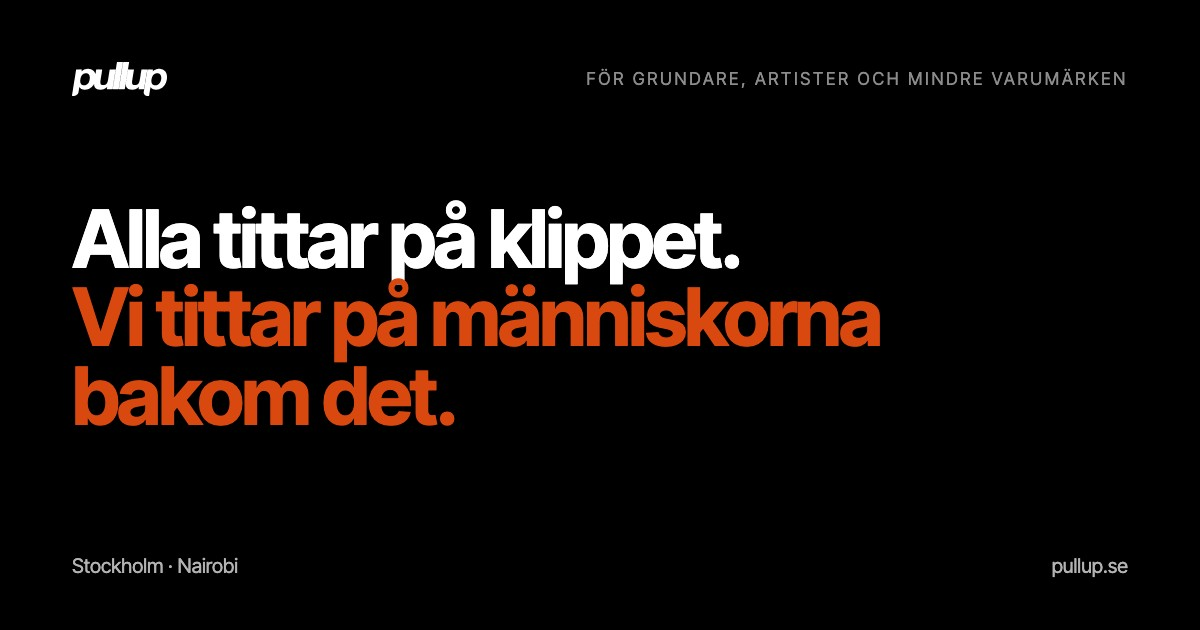
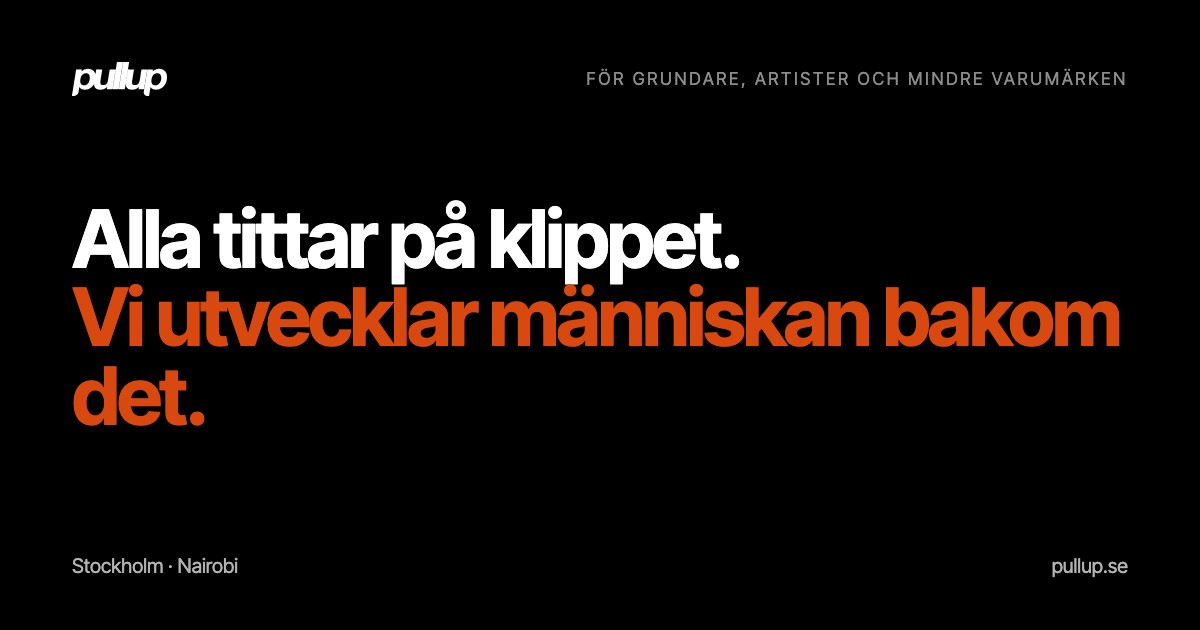
landing: the person behind it — hero, chapters and offer push developing the person for growth that lasts
- Hero: 'Everyone looks at the clip. We develop the person behind it.' + sub
  (voice, direction, the habit of showing up — growth that lasts) + 'Meet the
  people behind it' with the six faces
- 01 The people: 'We developed the people. The brands grew with them.';
  cards read How they grew → What followed
- 02 'You grow every week. Your brand grows with you.'; 03 'Built around you,
  as you grow.'; offer 'Built for the long run' (price no longer twice)
- Swedish number style everywhere (10 000+, 28,1 milj.), CountUp included
- Swedish booklet previews; share card + meta on the new line (v=5)

Changed region(s): [[0.0617, 0.4222, 0.9558, 0.6937]]

diff --git a/frontend/src/pages/MixPage.jsx b/frontend/src/pages/MixPage.jsx
@@ -21,7 +21,10 @@ import { Clip, Spike } from "./CorePage.jsx";
 
 // Counts every number in a string up from zero the first time it's seen:
 // "28.1M" → 0.0M…28.1M, "10,000+" → 0…10,000+. Words stay as they are.
+// Animates the English source; every frame goes through t(), so Swedish reads
+// "10 000+" and "28,1 milj." all the way up.
 function CountUp({ text }) {
+  const t = useT();
   const ref = useRef(null);
   const [k, setK] = useState(() =>
     typeof IntersectionObserver === "undefined" || window.matchMedia?.("(prefers-reduced-motion: reduce)").matches ? 1 : 0,
@@ -50,7 +53,7 @@ function CountUp({ text }) {
     const v = Number(m.replace(/,/g, "")) * k;
     return m.includes(",") ? Math.round(v).toLocaleString("en-US") : v.toFixed(dec);
   });
-  return <span ref={ref} aria-label={text}>{out}</span>;
+  return <span ref={ref} aria-label={t(text)}>{t(out)}</span>;
 }
 
 // The people first: a row of faces, each one a door to their story below.
@@ -97,12 +100,12 @@ function StoryStack() {
               {t(c.kicker)}
             </p>
             <h3 className="mx-story-name">{c.name}</h3>
-            <p className="mx-story-tog">{t("Together")}</p>
-            <p className={`mx-story-big${t(c.score[0]).length > 8 ? " is-long" : ""}`}><CountUp text={t(c.score[0])} /></p>
+            <p className="mx-story-tog">{t("What followed")}</p>
+            <p className={`mx-story-big${t(c.score[0]).length > 8 ? " is-long" : ""}`}><CountUp text={c.score[0]} /></p>
             <p className="mx-story-big-l">{t(c.score[1])}</p>
             <dl className="mx-story-pb">
               <div><dt>{t("Where they started")}</dt><dd>{t(c.who)}</dd></div>
-              <div><dt>{t("What they gained")}</dt><dd>{t(c.gained)}</dd></div>
+              <div><dt>{t("How they grew")}</dt><dd>{t(c.gained)}</dd></div>
             </dl>
             <Reveal className="mx-story-chart"><StoryChart chart={c.chart} /></Reveal>
             <a
@@ -167,8 +170,11 @@ function Hero() {
           <p className="mx-eyebrow mx-rise" style={{ "--d": "0.1s" }}>{t("For founders, artists and small brands")}</p>
           <h1 className="mx-h1">
             <span className="mx-rise" style={{ "--d": "0.25s" }}>{t("Everyone looks at the clip.")}</span>
-            <span className="mx-rise mx-grad" style={{ "--d": "0.55s" }}>{t("We look at the people behind it.")}</span>
+            <span className="mx-rise mx-grad" style={{ "--d": "0.55s" }}>{t("We develop the person behind it.")}</span>
           </h1>
+          <p className="mx-sub mx-rise" style={{ "--d": "0.85s" }}>
+            {t("Your voice, your direction, the habit of showing up — built week by week. That's growth that lasts.")}
+          </p>
           <div className="mx-ctas mx-rise" style={{ "--d": "1.05s" }}>
             <button
               type="button"
@@ -182,13 +188,18 @@ function Hero() {
             </button>
             <button
               type="button"
-              className="mx-link"
+              className="mx-link mx-meet"
               onClick={() => {
                 trackEvent("cta_click", { location: "mix_hero_stories" });
                 scrollToId("stories");
               }}
             >
-              {t("See the stories")} <span aria-hidden="true">›</span>
+              <span className="mx-faces" aria-hidden="true">
+                {STORIES.map((c) => (
+                  <img key={c.slug} src={COVERS[c.slug] || c.image} alt="" decoding="async" style={{ "--sc": c.color }} />
+                ))}
+              </span>
+              {t("Meet the people behind it")} <span aria-hidden="true">›</span>
             </button>
           </div>
           <p className="mx-price mx-rise" style={{ "--d": "1.2s" }}>
@@ -219,12 +230,12 @@ export function MixContent() {
       <section id="stories" className="pc-section ch-1" data-pc-section="stories" data-pc-order="3">
         <div className="pc-wrap">
           <header className="mx-res-head">
-            <Reveal><p className="mx-res-k">01 · {t("What we've achieved together")}</p></Reveal>
+            <Reveal><p className="mx-res-k">01 · {t("The people")}</p></Reveal>
             <Reveal delay={0.06}>
-              <h2 className="mx-res-h">{t("We found the direction with them.")} <span>{t("Here's where it took them.")}</span></h2>
+              <h2 className="mx-res-h">{t("We developed the people.")} <span>{t("The brands grew with them.")}</span></h2>
             </Reveal>
             <Reveal delay={0.12}>
-              <p className="mx-res-sub">{t("Founders, artists, a venue and a global brand. Different people, different starting points — the same way of working.")}</p>
+              <p className="mx-res-sub">{t("Founders, artists, the people behind a venue and the talent inside a global brand. Different starting points — the same work: find the person, give them a direction, let it show every week.")}</p>
             </Reveal>
           </header>
           <People />
@@ -241,11 +252,11 @@ export function MixContent() {
         <div className="pc-wrap">
           <SectionLabel n="02">{t("How we take you there")}</SectionLabel>
           <Reveal>
-            <h2 className="pc-h2 hw-h2">{t("We build the line. Every week.")}</h2>
+            <h2 className="pc-h2 hw-h2">{t("You grow every week. Your brand grows with you.")}</h2>
           </Reveal>
           <Reveal delay={0.06}>
             <p className="st-lede hw-lede">
-              {t("A clear direction first. Then a 30-minute sprint every week that turns where you are right now into content — and every piece measured, so we scale what works.")}
+              {t("First a clear direction: who you are and where you're going. Then a 30-minute sprint every week where we sharpen your voice and turn where you are right now into content. Every piece is measured, so we scale what works — month after month.")}
             </p>
           </Reveal>
           <EngineChart />
@@ -256,7 +267,7 @@ export function MixContent() {
         <div className="pc-wrap">
           <SectionLabel n="03">{t("What we build along the way")}</SectionLabel>
           <Reveal>
-            <h2 className="pc-h2 tk-h2">{t("Everything we can build. Pulled in when you need it.")}</h2>
+            <h2 className="pc-h2 tk-h2">{t("Built around you, as you grow.")}</h2>
           </Reveal>
           <Toolkit />
         </div>
@@ -266,8 +277,8 @@ export function MixContent() {
         id="offer"
         source="mix"
         chapter={["04", "One offer"]}
-        heading="30,000 SEK a month. No tiers, no add-ons."
-        sub="Strategy, the weekly sprint and every tool behind it — apps, dashboards, tracking. Content is scoped to what actually moves your brand, not a quota of reels."
+        heading="Built for the long run. No tiers, no add-ons."
+        sub="We work with the person behind the brand, month after month — that's where growth that lasts comes from. Strategy, the weekly sprint and every tool behind it are included. Content is scoped to what moves you forward, never a quota."
       />
 
       <DeckTeaser source="mix" />
@@ -290,6 +301,12 @@ export const MIX_CSS = `
   .mx-link { font: inherit; font-size: 17px; font-weight: 500; background: none; border: 0; cursor: pointer; color: #FF8A57; padding: 6px 0; }
   .mx-link:hover { text-decoration: underline; }
   .mx-link span { font-size: 1.15em; margin-left: 2px; }
+  .mx-sub { margin-top: clamp(16px, 2.4vh, 24px); max-width: 34ch; font-size: clamp(18px, 1.7vw, 23px); line-height: 1.4; font-weight: 500; color: #c7c7cc; letter-spacing: -0.01em; text-wrap: balance; }
+  .mx-meet { display: inline-flex; align-items: center; gap: 10px; }
+  .mx-faces { display: inline-flex; }
+  .mx-faces img { width: 30px; height: 30px; border-radius: 50%; object-fit: cover; box-shadow: 0 0 0 2px #000, 0 0 0 3.5px var(--sc); }
+  .mx-faces img + img { margin-left: -9px; }
+  @media (max-width: 520px) { .mx-faces img:nth-child(n+5) { display: none; } }
   .mx-price { margin-top: 18px; font-size: 14px; color: #86868b; }
   .mx-hero-logos { position: relative; padding-bottom: clamp(16px, 3vh, 32px); }
   .mx-rise { opacity: 0; transform: translateY(20px); animation: mx-rise 1.1s cubic-bezier(0.16,1,0.3,1) forwards; animation-delay: var(--d, 0s); }

diff --git a/frontend/index.html b/frontend/index.html
@@ -8,9 +8,9 @@
     />
 
     <!-- Primary Meta -->
-    <title>PullUp — Alla tittar på klippet. Vi tittar på människorna bakom det.</title>
-    <meta name="title" content="PullUp — Alla tittar på klippet. Vi tittar på människorna bakom det." />
-    <meta name="description" content="Alla tittar på klippet. Vi tittar på människorna bakom det – strategi, innehåll och tillväxt för grundare, artister och mindre varumärken. Ett erbjudande: 30 000 kr i månaden." />
+    <title>PullUp — Alla tittar på klippet. Vi utvecklar människan bakom det.</title>
+    <meta name="title" content="PullUp — Alla tittar på klippet. Vi utvecklar människan bakom det." />
+    <meta name="description" content="Alla tittar på klippet. Vi utvecklar människan bakom det – rösten, riktningen, vanan att synas – för tillväxt som håller. För grundare, artister och mindre varumärken. 30 000 kr i månaden." />
     <link rel="canonical" href="https://pullup.se/" />
 
     <!-- Open Graph. Absolute URLs so strict crawlers (Instagram via Facebook)
@@ -22,21 +22,21 @@
     <meta property="og:site_name" content="PullUp" />
     <meta property="og:locale" content="sv_SE" />
     <meta property="og:locale:alternate" content="en_US" />
-    <meta property="og:title" content="Alla tittar på klippet. Vi tittar på människorna bakom det." />
-    <meta property="og:description" content="Alla tittar på klippet. Vi tittar på människorna bakom det – strategi, innehåll och tillväxt för grundare, artister och mindre varumärken. Ett erbjudande: 30 000 kr i månaden." />
-    <meta property="og:image" content="https://pullup.se/og-agency.jpg?v=4" />
-    <meta property="og:image:secure_url" content="https://pullup.se/og-agency.jpg?v=4" />
+    <meta property="og:title" content="Alla tittar på klippet. Vi utvecklar människan bakom det." />
+    <meta property="og:description" content="Alla tittar på klippet. Vi utvecklar människan bakom det – rösten, riktningen, vanan att synas – för tillväxt som håller. För grundare, artister och mindre varumärken. 30 000 kr i månaden." />
+    <meta property="og:image" content="https://pullup.se/og-agency.jpg?v=5" />
+    <meta property="og:image:secure_url" content="https://pullup.se/og-agency.jpg?v=5" />
     <meta property="og:image:type" content="image/jpeg" />
     <meta property="og:image:width" content="1200" />
     <meta property="og:image:height" content="630" />
-    <meta property="og:image:alt" content="PullUp — Alla tittar på klippet. Vi tittar på människorna bakom det. För grundare, artister och mindre varumärken, Stockholm och Nairobi." />
+    <meta property="og:image:alt" content="PullUp — Alla tittar på klippet. Vi utvecklar människan bakom det. För grundare, artister och mindre varumärken, Stockholm och Nairobi." />
 
     <!-- Twitter / X -->
     <meta name="twitter:card" content="summary_large_image" />
-    <meta name="twitter:title" content="Alla tittar på klippet. Vi tittar på människorna bakom det." />
-    <meta name="twitter:description" content="Alla tittar på klippet. Vi tittar på människorna bakom det – strategi, innehåll och tillväxt för grundare, artister och mindre varumärken. Ett erbjudande: 30 000 kr i månaden." />
-    <meta name="twitter:image" content="https://pullup.se/og-agency.jpg?v=4" />
-    <meta name="twitter:image:alt" content="PullUp — Alla tittar på klippet. Vi tittar på människorna bakom det. För grundare, artister och mindre varumärken, Stockholm och Nairobi." />
+    <meta name="twitter:title" content="Alla tittar på klippet. Vi utvecklar människan bakom det." />
+    <meta name="twitter:description" content="Alla tittar på klippet. Vi utvecklar människan bakom det – rösten, riktningen, vanan att synas – för tillväxt som håller. För grundare, artister och mindre varumärken. 30 000 kr i månaden." />
+    <meta name="twitter:image" content="https://pullup.se/og-agency.jpg?v=5" />
+    <meta name="twitter:image:alt" content="PullUp — Alla tittar på klippet. Vi utvecklar människan bakom det. För grundare, artister och mindre varumärken, Stockholm och Nairobi." />
 
     <!-- Structured data: who we are and what we sell -->
     <script type="application/ld+json">
@@ -44,11 +44,11 @@
         "@context": "https://schema.org",
         "@type": "ProfessionalService",
         "name": "PullUp",
-        "alternateName": "PullUp — Alla tittar på klippet. Vi tittar på människorna bakom det.",
+        "alternateName": "PullUp — Alla tittar på klippet. Vi utvecklar människan bakom det.",
         "url": "https://pullup.se/",
         "logo": "https://pullup.se/pwa-icon-512.png",
-        "image": "https://pullup.se/og-agency.jpg?v=4",
-        "description": "Alla tittar på klippet. Vi tittar på människorna bakom det – strategi, innehåll och tillväxt för grundare, artister och mindre varumärken. Ett erbjudande: 30 000 kr i månaden.",
+        "image": "https://pullup.se/og-agency.jpg?v=5",
+        "description": "Alla tittar på klippet. Vi utvecklar människan bakom det – rösten, riktningen, vanan att synas – för tillväxt som håller. För grundare, artister och mindre varumärken. 30 000 kr i månaden.",
         "email": "hello@pullup.se",
         "areaServed": ["Stockholm", "Nairobi", "Worldwide"],
         "inLanguage": ["sv", "en"],

diff --git a/frontend/src/components/agency/i18n/sv.js b/frontend/src/components/agency/i18n/sv.js
@@ -223,7 +223,7 @@ export const SV = {
 
   // ─── booklet teaser · booklet page ───
   "The booklet · open": "Broschyren · öppen",
-  "Where do we want to go — and who do we need to be to get there?": "Vart vill vi – och vilka måste vi vara för att komma dit?",
+  "Where do we want to go — and who do we need to be to get there?": "Vart vill vi – och vilka behöver vi vara för att komma dit?",
   "Getting there isn't a plan you finish — it's a decision you take every day: who we are. A brand is held by many people, so that decision has to be taken together. The booklet shows how one system aligns them, from a founder to a global brand.": "Att komma dit är ingen plan som blir klar – det är ett beslut du fattar varje dag: vilka vi är. Ett varumärke bärs av många människor, så det beslutet måste fattas tillsammans. Häftet visar hur ett och samma system samlar dem – från en ensam grundare till ett globalt varumärke.",
   "Read the booklet": "Läs broschyren",
   "The booklet": "Häftet",
@@ -1030,4 +1030,22 @@ export const SV = {
   "A clear direction, content that sounds like you, and growth you can measure.": "En tydlig riktning, innehåll som låter som du och tillväxt du kan mäta.",
   "month": "månad",
   "See the whole picture": "Se hela bilden",
+
+  // Front page — the person behind it (2026-10-19).
+  "We develop the person behind it.": "Vi utvecklar människan bakom det.",
+  "Everyone looks at the clip. We develop the person behind it.": "Alla tittar på klippet. Vi utvecklar människan bakom det.",
+  "Your voice, your direction, the habit of showing up — built week by week. That's growth that lasts.": "Din röst, din riktning, vanan att synas – byggt vecka för vecka. Det är tillväxt som håller.",
+  "Meet the people behind it": "Möt människorna bakom",
+  "The people": "Människorna",
+  "We developed the people.": "Vi utvecklade människorna.",
+  "The brands grew with them.": "Varumärkena växte med dem.",
+  "Founders, artists, the people behind a venue and the talent inside a global brand. Different starting points — the same work: find the person, give them a direction, let it show every week.": "Grundare, artister, människorna bakom en scen och talangerna i ett globalt varumärke. Olika utgångslägen – samma arbete: hitta personen, ge den en riktning och låt det synas varje vecka.",
+  "What followed": "Det som följde",
+  "How they grew": "Hur de växte",
+  "You grow every week. Your brand grows with you.": "Du växer varje vecka. Varumärket växer med dig.",
+  "First a clear direction: who you are and where you're going. Then a 30-minute sprint every week where we sharpen your voice and turn where you are right now into content. Every piece is measured, so we scale what works — month after month.": "Först en tydlig riktning: vem du är och vart du ska. Sedan en 30-minuterssprint varje vecka där vi vässar din röst och gör innehåll av där du är just nu. Allt mäts, så att vi skalar det som fungerar – månad efter månad.",
+  "Built around you, as you grow.": "Byggt runt dig, i takt med att du växer.",
+  "Built for the long run. No tiers, no add-ons.": "Byggt för lång sikt. Inga nivåer, inga tillägg.",
+  "We work with the person behind the brand, month after month — that's where growth that lasts comes from. Strategy, the weekly sprint and every tool behind it are included. Content is scoped to what moves you forward, never a quota.": "Vi jobbar med personen bakom varumärket, månad efter månad – det är därifrån tillväxt som håller kommer. Strategi, veckosprinten och alla verktyg bakom ingår. Innehållet planeras efter det som tar dig framåt, aldrig efter en kvot.",
+  "{#} h → {#} min": "{#} h → {#} min",
 };

diff --git a/frontend/src/components/agency/i18n.js b/frontend/src/components/agency/i18n.js
@@ -62,12 +62,26 @@ const subscribe = (fn) => {
 export const useLang = () => useSyncExternalStore(subscribe, () => current, () => DEFAULT);
 
 const NUM = /\d[\d,.]*\d|\d/g;
+
+// Swedish number style: "10,000" → "10 000", "28.1M" → "28,1 milj.".
+// Runs on everything t() returns in Swedish, so data and live counts written
+// in English format read natively.
+const NB = "\u00a0";
+export function svNumbers(s) {
+  return s
+    .replace(/\b(\d+)\.(\d+)M\b/g, `$1,$2${NB}milj.`)
+    .replace(/\b\d{1,3}(?:,\d{3})+\b/g, (m) => m.replace(/,/g, NB));
+}
 const fill = (s, vars) => (vars ? s.replace(/\{(\w+)\}/g, (m, k) => (k in vars ? String(vars[k]) : m)) : s);
 const missed = import.meta.env?.DEV ? new Set() : null;
 
 export function translate(lang, s, vars) {
   if (typeof s !== "string") return s;
   if (lang === "en" || !DICTS[lang]) return fill(s, vars);
+  return lang === "sv" ? svNumbers(lookup(lang, s, vars)) : lookup(lang, s, vars);
+}
+
+function lookup(lang, s, vars) {
   const dict = DICTS[lang];
   let out = dict[s];
   if (out == null) {

diff --git a/frontend/src/components/agency/DeckTeaser.jsx b/frontend/src/components/agency/DeckTeaser.jsx
@@ -89,9 +89,9 @@ export function DeckTeaser({ source = "landing" }) {
         </div>
 
         <div className="pc-deck-stack" aria-hidden="true">
-          <img src="/deck-preview/system.webp" alt="" className="pc-deck-slide s3" loading="lazy" decoding="async" />
-          <img src="/deck-preview/who.webp" alt="" className="pc-deck-slide s2" loading="lazy" decoding="async" />
-          <img src="/deck-preview/cover.webp" alt="" className="pc-deck-slide s1" loading="lazy" decoding="async" />
+          <img src={`/deck-preview/${t.lang === "sv" ? "sv/" : ""}system.webp`} alt="" className="pc-deck-slide s3" loading="lazy" decoding="async" />
+          <img src={`/deck-preview/${t.lang === "sv" ? "sv/" : ""}who.webp`} alt="" className="pc-deck-slide s2" loading="lazy" decoding="async" />
+          <img src={`/deck-preview/${t.lang === "sv" ? "sv/" : ""}cover.webp`} alt="" className="pc-deck-slide s1" loading="lazy" decoding="async" />
         </div>
       </div>
     </section>

diff --git a/frontend/src/pages/LandingPage.jsx b/frontend/src/pages/LandingPage.jsx
@@ -15,7 +15,7 @@ import { MixContent, MIX_CSS } from "./MixPage.jsx";
    line → toolkit → one offer → booklet. The content lives in MixPage.jsx
    (built as /mix, now the main page); this file adds /login's auth modal. */
 
-const TITLE = "Everyone looks at the clip. We look at the people behind it.";
+const TITLE = "Everyone looks at the clip. We develop the person behind it.";
 
 /* ─── component ─── */
 export function LandingPage() {

diff --git a/frontend/src/components/agency/StoryChart.jsx b/frontend/src/components/agency/StoryChart.jsx
@@ -61,7 +61,7 @@ function Channels() {
           <div key={r.channel} className="sc-hrow is-hot">
             <span className="sc-hk">{r.channel}</span>
             <span className="sc-track"><span className="sc-bar" style={{ "--w": r.views / max, "--i": i }} /></span>
-            <span className="sc-hv">{compact(r.views)}</span>
+            <span className="sc-hv">{t(compact(r.views))}</span>
           </div>
         ))}
       </div>
